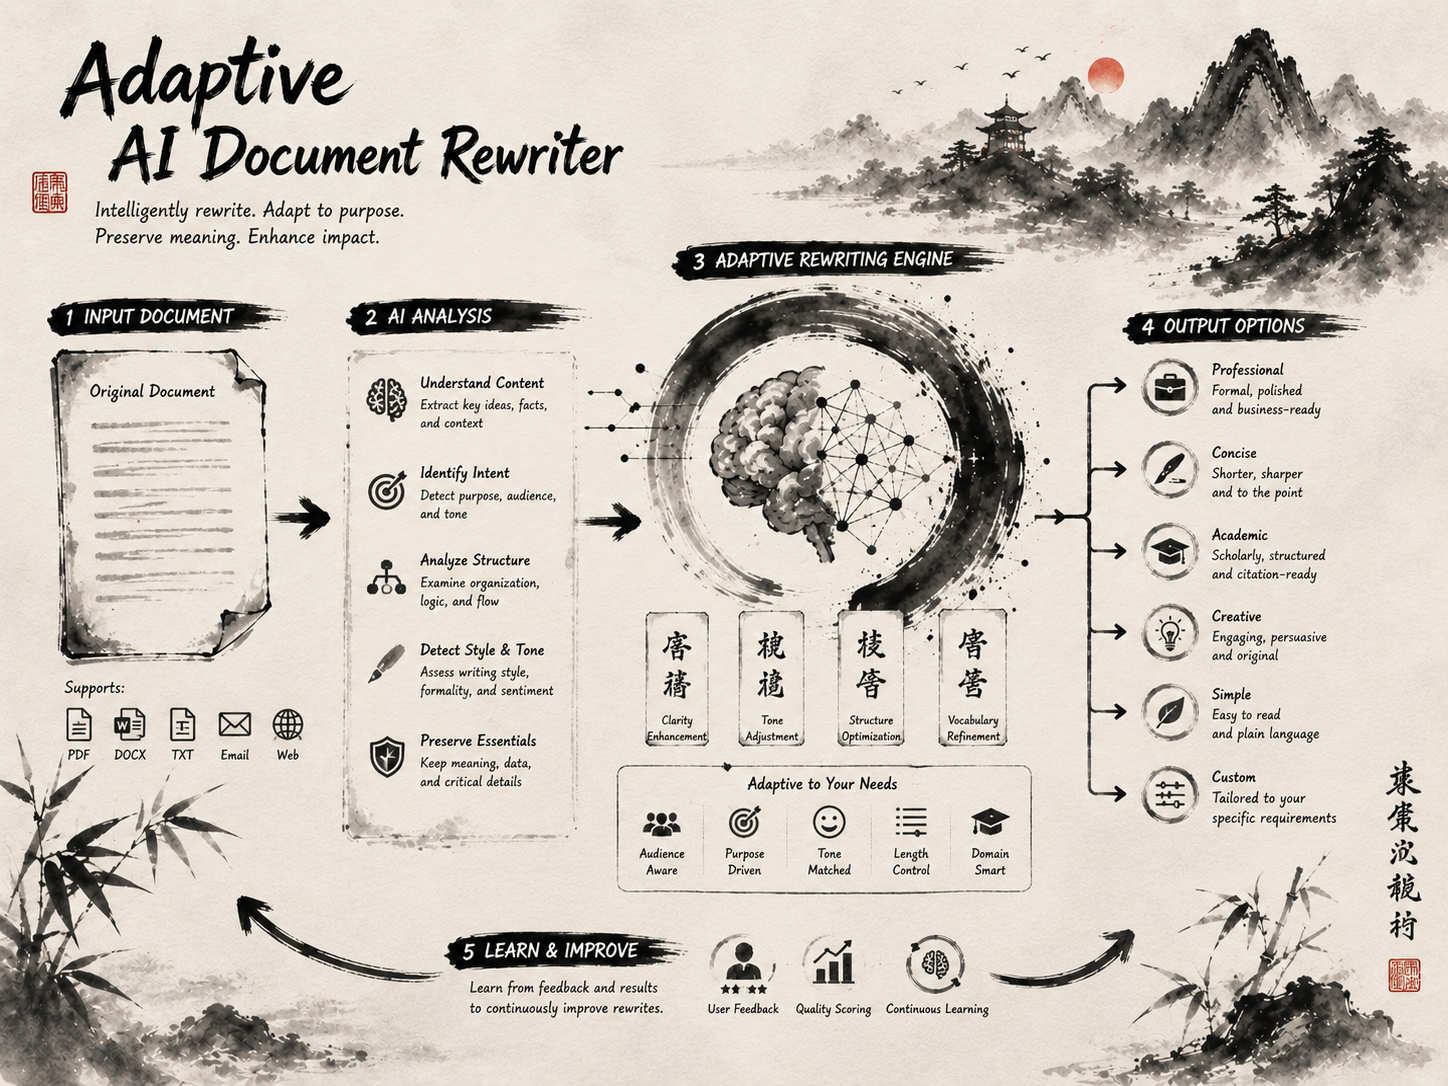
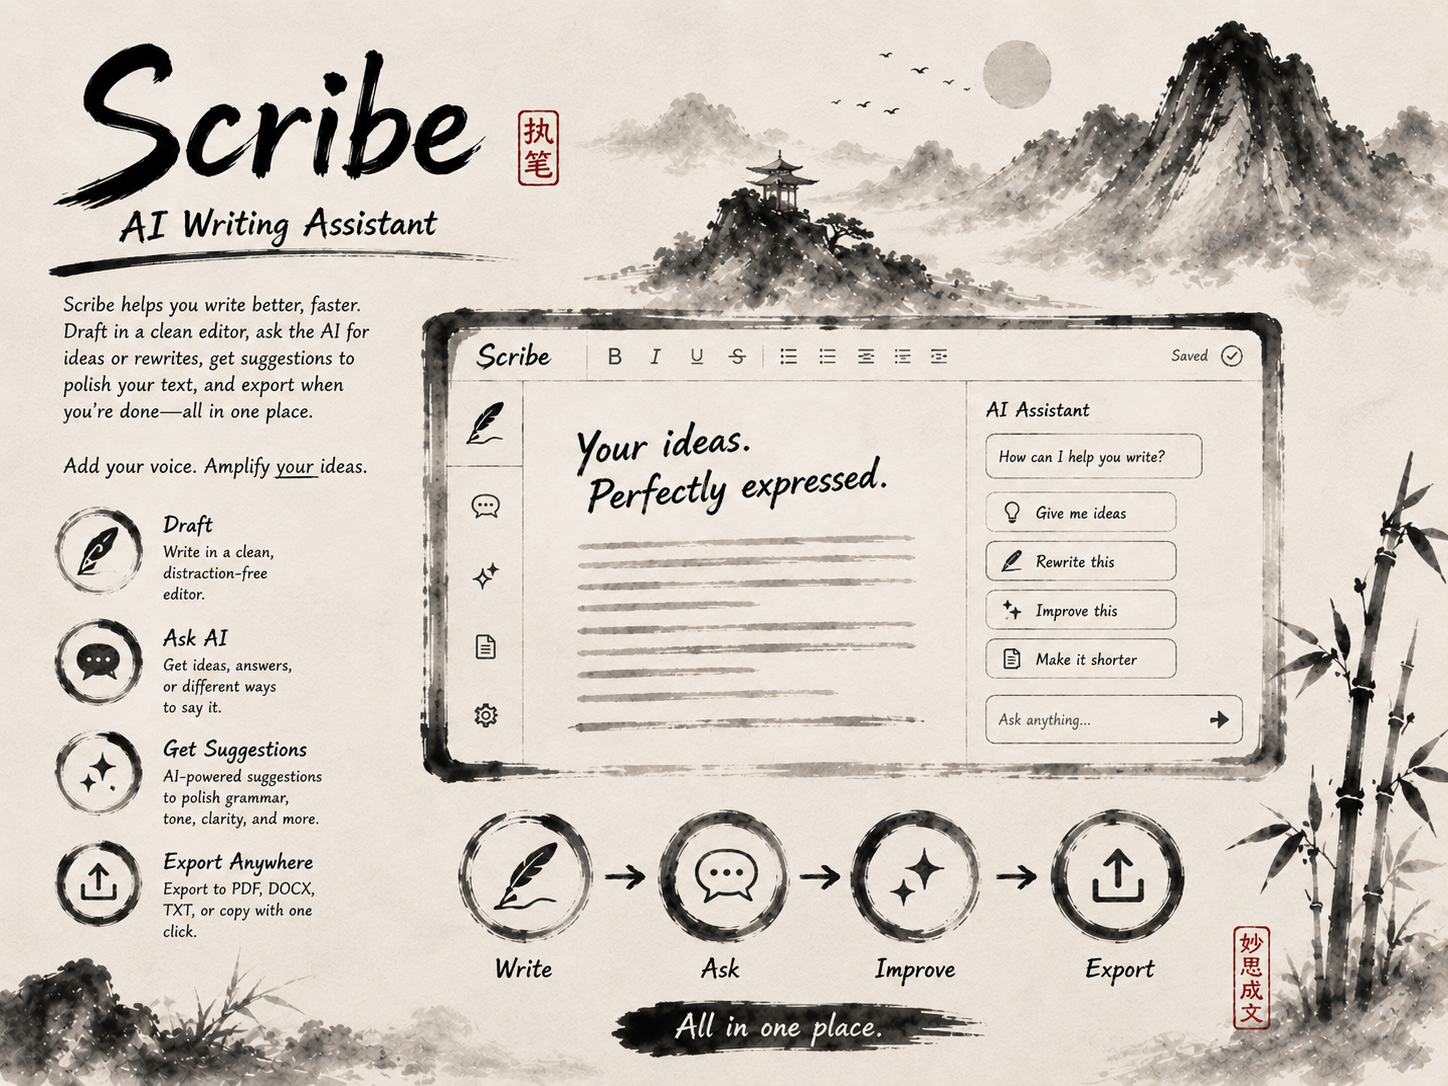
Improve mobile resume button, project demo links, and motion reliability.
Add live demo URL support with icon actions, tighten mobile resume centering, stabilize page-bird animation, and make hero video start more reliably.

diff --git a/src/styles/projects-theme.css b/src/styles/projects-theme.css
@@ -251,6 +251,60 @@
   background: #e1d6d6;
 }
 
+.rk-project-card-actions {
+  position: absolute;
+  right: 12px;
+  bottom: 12px;
+  z-index: 3;
+  display: flex;
+  gap: 8px;
+}
+
+.rk-project-card-action {
+  width: 36px;
+  height: 36px;
+  border-radius: 999px;
+  display: inline-flex;
+  align-items: center;
+  justify-content: center;
+  color: #000;
+  background: rgba(225, 214, 214, 0.92);
+  border: 1px solid #000;
+  text-decoration: none;
+  box-shadow: none;
+  backdrop-filter: blur(6px);
+  transition: background 0.2s, color 0.2s, transform 0.15s;
+}
+
+.rk-project-card-action:hover {
+  background: var(--rk-orange, #e8713a);
+  color: #fff;
+  transform: translateY(-1px);
+}
+
+.rk-project-card-action:focus-visible {
+  outline: 2px solid rgba(232, 113, 58, 0.55);
+  outline-offset: 2px;
+}
+
+.rk-project-card-body-actions {
+  margin-top: 12px;
+  display: flex;
+  align-items: center;
+  gap: 10px;
+}
+
+.rk-project-card-action--inline {
+  width: 34px;
+  height: 34px;
+  background: rgba(0, 0, 0, 0.04);
+  backdrop-filter: none;
+}
+
+.rk-project-card-action--inline:hover {
+  transform: none;
+}
+
 .rk-project-card-preview-img {
   position: absolute;
   inset: 0;

diff --git a/src/components/projects/ProjectCarousel.tsx b/src/components/projects/ProjectCarousel.tsx
@@ -5,6 +5,7 @@ import React, {
   useRef,
   useState,
 } from 'react';
+import { Github, Globe } from 'lucide-react';
 import { PROJECTS, type Project } from '../../data/projects';
 import { useCarouselFocus } from '../../hooks/useCarouselFocus';
 import {
@@ -38,7 +39,7 @@ const COUNT = PROJECTS.length;
 type CarouselCardProps = {
   item: CarouselItem;
   registerNode: (slot: number, node: HTMLElement | null) => void;
-  onCardClick: (realIndex: number, githubUrl?: string) => void;
+  onCardClick: (realIndex: number, primaryUrl?: string) => void;
   isCenter: boolean;
 };
 
@@ -61,11 +62,11 @@ const CarouselCard: React.FC<CarouselCardProps> = ({
       ref={ref}
       data-carousel-slot={item.slot}
       className="rk-project-card rk-project-card--carousel"
-      onClick={() => onCardClick(realIdx, item.githubUrl)}
+      onClick={() => onCardClick(realIdx, item.liveUrl ?? item.githubUrl)}
       onKeyDown={(e) => {
         if (e.key === 'Enter' || e.key === ' ') {
           e.preventDefault();
-          onCardClick(realIdx, item.githubUrl);
+          onCardClick(realIdx, item.liveUrl ?? item.githubUrl);
         }
       }}
       tabIndex={isCenter ? 0 : -1}
@@ -75,6 +76,22 @@ const CarouselCard: React.FC<CarouselCardProps> = ({
       <div
         className="rk-project-card-media rk-project-card-media--image"
       >
+        {item.liveUrl ? (
+          <div className="rk-project-card-actions">
+            <a
+              href={item.liveUrl}
+              className="rk-project-card-action"
+              target="_blank"
+              rel="noopener noreferrer"
+              aria-label="Open live demo"
+              title="Live demo"
+              data-bird-perch
+              onClick={(e) => e.stopPropagation()}
+            >
+              <Globe size={18} aria-hidden="true" />
+            </a>
+          </div>
+        ) : null}
         <img
           src={item.previewImage}
           alt=""
@@ -94,16 +111,20 @@ const CarouselCard: React.FC<CarouselCardProps> = ({
           ))}
         </div>
         {item.githubUrl ? (
-          <a
-            href={item.githubUrl}
-            className="rk-project-card-link"
-            target="_blank"
-            rel="noopener noreferrer"
-            data-bird-perch
-            onClick={(e) => e.stopPropagation()}
-          >
-            View Project →
-          </a>
+          <div className="rk-project-card-body-actions">
+            <a
+              href={item.githubUrl}
+              className="rk-project-card-action rk-project-card-action--inline"
+              target="_blank"
+              rel="noopener noreferrer"
+              aria-label="Open source code on GitHub"
+              title="Source code"
+              data-bird-perch
+              onClick={(e) => e.stopPropagation()}
+            >
+              <Github size={18} aria-hidden="true" />
+            </a>
+          </div>
         ) : null}
       </div>
     </article>
@@ -240,7 +261,7 @@ const ProjectCarousel: React.FC = () => {
   );
 
   const handleCardClick = useCallback(
-    (clickedRealIndex: number, githubUrl?: string) => {
+    (clickedRealIndex: number, primaryUrl?: string) => {
       if (wasDragged.current) return;
 
       if (clickedRealIndex !== activeIndex) {
@@ -248,7 +269,7 @@ const ProjectCarousel: React.FC = () => {
         return;
       }
 
-      if (githubUrl) window.open(githubUrl, '_blank', 'noopener,noreferrer');
+      if (primaryUrl) window.open(primaryUrl, '_blank', 'noopener,noreferrer');
     },
     [activeIndex, scrollToRealIndex],
   );

diff --git a/src/styles/layout.css b/src/styles/layout.css
@@ -85,17 +85,21 @@
   background: var(--rk-orange);
   color: #fff;
   border: none;
-  padding: 10px 31px;
+  padding: 10px 28px;
   border-radius: 50px;
   font-size: 14px;
   font-weight: 600;
   cursor: pointer;
   font-family: 'Cormorant SC', serif;
   transition: background 0.2s, transform 0.15s, box-shadow 0.2s;
-  letter-spacing: 3px;
+  letter-spacing: 0.14em;
   text-decoration: none;
-  display: inline-block;
-  vertical-align: middle;
+  display: inline-flex;
+  align-items: center;
+  justify-content: center;
+  text-align: center;
+  box-sizing: border-box;
+  line-height: 1;
 }
 
 .rk-btn-resume:hover {
@@ -207,7 +211,19 @@
     font-weight: 600;
   }
 
-  .rk-nav-mobile-menu a.active {
-    color: var(--rk-orange);
+  .rk-nav-mobile-menu .rk-btn-resume {
+    width: 100%;
+    margin-top: 8px;
+    padding: 14px 24px;
+    font-size: 15px;
+    font-weight: 600;
+    letter-spacing: 0.12em;
+    color: #fff;
+    border-radius: 999px;
+  }
+
+  .rk-nav-mobile-menu .rk-btn-resume:hover {
+    transform: none;
+    box-shadow: none;
   }
 }

diff --git a/src/hooks/useHeroVideoPlayback.ts b/src/hooks/useHeroVideoPlayback.ts
@@ -49,6 +49,7 @@ export function useHeroVideoPlayback(
   const [skipVideo, setSkipVideo] = useState(() => shouldSkipVideo());
   const [media, setMedia] = useState<HeroMedia>(getHeroMedia);
   const playingRef = useRef(false);
+  const needsGestureRef = useRef(false);
 
   useEffect(() => {
     const syncSkip = () => setSkipVideo(shouldSkipVideo());
@@ -102,6 +103,7 @@ export function useHeroVideoPlayback(
         if (video.readyState < HTMLMediaElement.HAVE_CURRENT_DATA) video.load();
         void video.play().catch(() => {
           playingRef.current = false;
+          needsGestureRef.current = true;
         });
       } else {
         video.pause();
@@ -133,6 +135,22 @@ export function useHeroVideoPlayback(
 
     document.addEventListener('visibilitychange', onVisibilityChange);
 
+    const onGesture = () => {
+      if (!needsGestureRef.current) return;
+      if (document.hidden) return;
+      const rect = section.getBoundingClientRect();
+      const visibleHeight =
+        Math.min(rect.bottom, window.innerHeight) - Math.max(rect.top, 0);
+      if (visibleHeight / rect.height < VISIBILITY_THRESHOLD) return;
+      needsGestureRef.current = false;
+      applySource();
+      void video.play().catch(() => {
+        needsGestureRef.current = true;
+      });
+    };
+
+    window.addEventListener('pointerdown', onGesture, { passive: true });
+
     if (section.getBoundingClientRect().height > 0) {
       const rect = section.getBoundingClientRect();
       const visibleHeight =
@@ -145,6 +163,7 @@ export function useHeroVideoPlayback(
     return () => {
       observer.disconnect();
       document.removeEventListener('visibilitychange', onVisibilityChange);
+      window.removeEventListener('pointerdown', onGesture);
       video.pause();
       playingRef.current = false;
     };

diff --git a/src/hooks/usePageBird.ts b/src/hooks/usePageBird.ts
@@ -299,20 +299,20 @@ export function usePageBird(
   useEffect(() => {
     if (!enabled) return;
 
-    let raf = 0;
+    const rafRef = { current: 0 as number };
     let paused = document.hidden;
 
     const onVisibility = () => {
       paused = document.hidden;
-      if (!paused && birdRef.current) {
-        raf = requestAnimationFrame(tick);
+      if (!paused && birdRef.current && rafRef.current === 0) {
+        rafRef.current = requestAnimationFrame(tick);
       }
     };
 
     document.addEventListener('visibilitychange', onVisibility);
 
     const tick = () => {
-      raf = 0;
+      rafRef.current = 0;
 
       if (paused || !birdRef.current) return;
 
@@ -387,14 +387,14 @@ export function usePageBird(
         applyFlipDom(spriteRef.current, thoughtRef.current, bird.flipX);
       }
 
-      raf = requestAnimationFrame(tick);
+      rafRef.current = requestAnimationFrame(tick);
     };
 
-    raf = requestAnimationFrame(tick);
+    rafRef.current = requestAnimationFrame(tick);
 
     return () => {
       document.removeEventListener('visibilitychange', onVisibility);
-      cancelAnimationFrame(raf);
+      cancelAnimationFrame(rafRef.current);
     };
   }, [enabled, wrapRef, spriteRef, thoughtRef, handleModeChange, showThought]);
 

diff --git a/src/data/projects.ts b/src/data/projects.ts
@@ -4,6 +4,7 @@ export interface Project {
   title: string;
   description: string;
   technologies: string[];
+  liveUrl?: string;
   githubUrl?: string;
   icon: LucideIcon;
   previewImage: string;
@@ -11,10 +12,11 @@ export interface Project {
 
 export const PROJECTS: Project[] = [
   {
-    title: 'AI Writing Assistant',
+    title: 'Scribe- AI Document Writer',
     description:
-      'A full-stack AI-powered writing assistant for real-time grammar correction, tone transformation, and content enhancement.',
-    technologies: ['React', 'Python', 'OpenRouter LLMs'],
+      'Scribe helps you write better, faster. Draft in a clean editor, ask the AI for ideas or rewrites, get suggestions to polish your text, and export when youre done—all in one place.',
+    technologies: ['React', 'TypeScript', 'Tailwind CSS', 'OpenRouter LLMs','Vite','Cursor','Render','Docker'],
+    liveUrl: 'https://scribe-23gk.onrender.com/',
     githubUrl: 'https://github.com/rajeshkadiyalaaa/AI-writing-assistant.git',
     icon: Bot,
     previewImage: '/Project_Images/Assistant.png',

diff --git a/src/components/sections/Hero.tsx b/src/components/sections/Hero.tsx
@@ -34,10 +34,11 @@ const Hero: React.FC = () => {
           className="rk-hero-video"
           src={media.videoSrc}
           poster={media.poster}
+          autoPlay
           muted
           loop
           playsInline
-          preload="none"
+          preload="metadata"
           disablePictureInPicture
           disableRemotePlayback
           aria-hidden

diff --git a/src/components/layout/Navbar.tsx b/src/components/layout/Navbar.tsx
@@ -140,7 +140,6 @@ const Navbar: React.FC = () => {
             target="_blank"
             rel="noopener noreferrer"
             className="rk-btn-resume"
-            style={{ width: 'fit-content' }}
             data-bird-perch
           >
             Resume